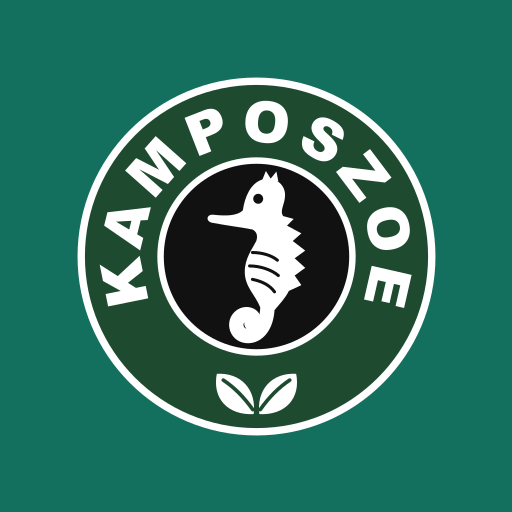
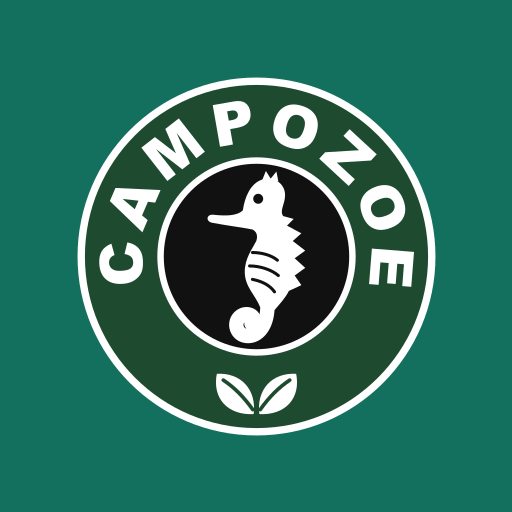
feat: el emblema dice CAMPOZOE

Changed region(s): [[0.1875, 0.1875, 0.8125, 0.5938]]

diff --git a/src/components/Logo.tsx b/src/components/Logo.tsx
@@ -1,4 +1,4 @@
-// Marca Kamposzoe en versión chica (sin el nombre, que no se lee a este tamaño). Emblema completo: public/logo.svg
+// Marca Campozoe en versión chica (sin el nombre, que no se lee a este tamaño). Emblema completo: public/logo.svg
 export default function Logo({ className = "" }: { className?: string }) {
   return (
     <svg viewBox="0 0 100 100" className={className} aria-hidden>
